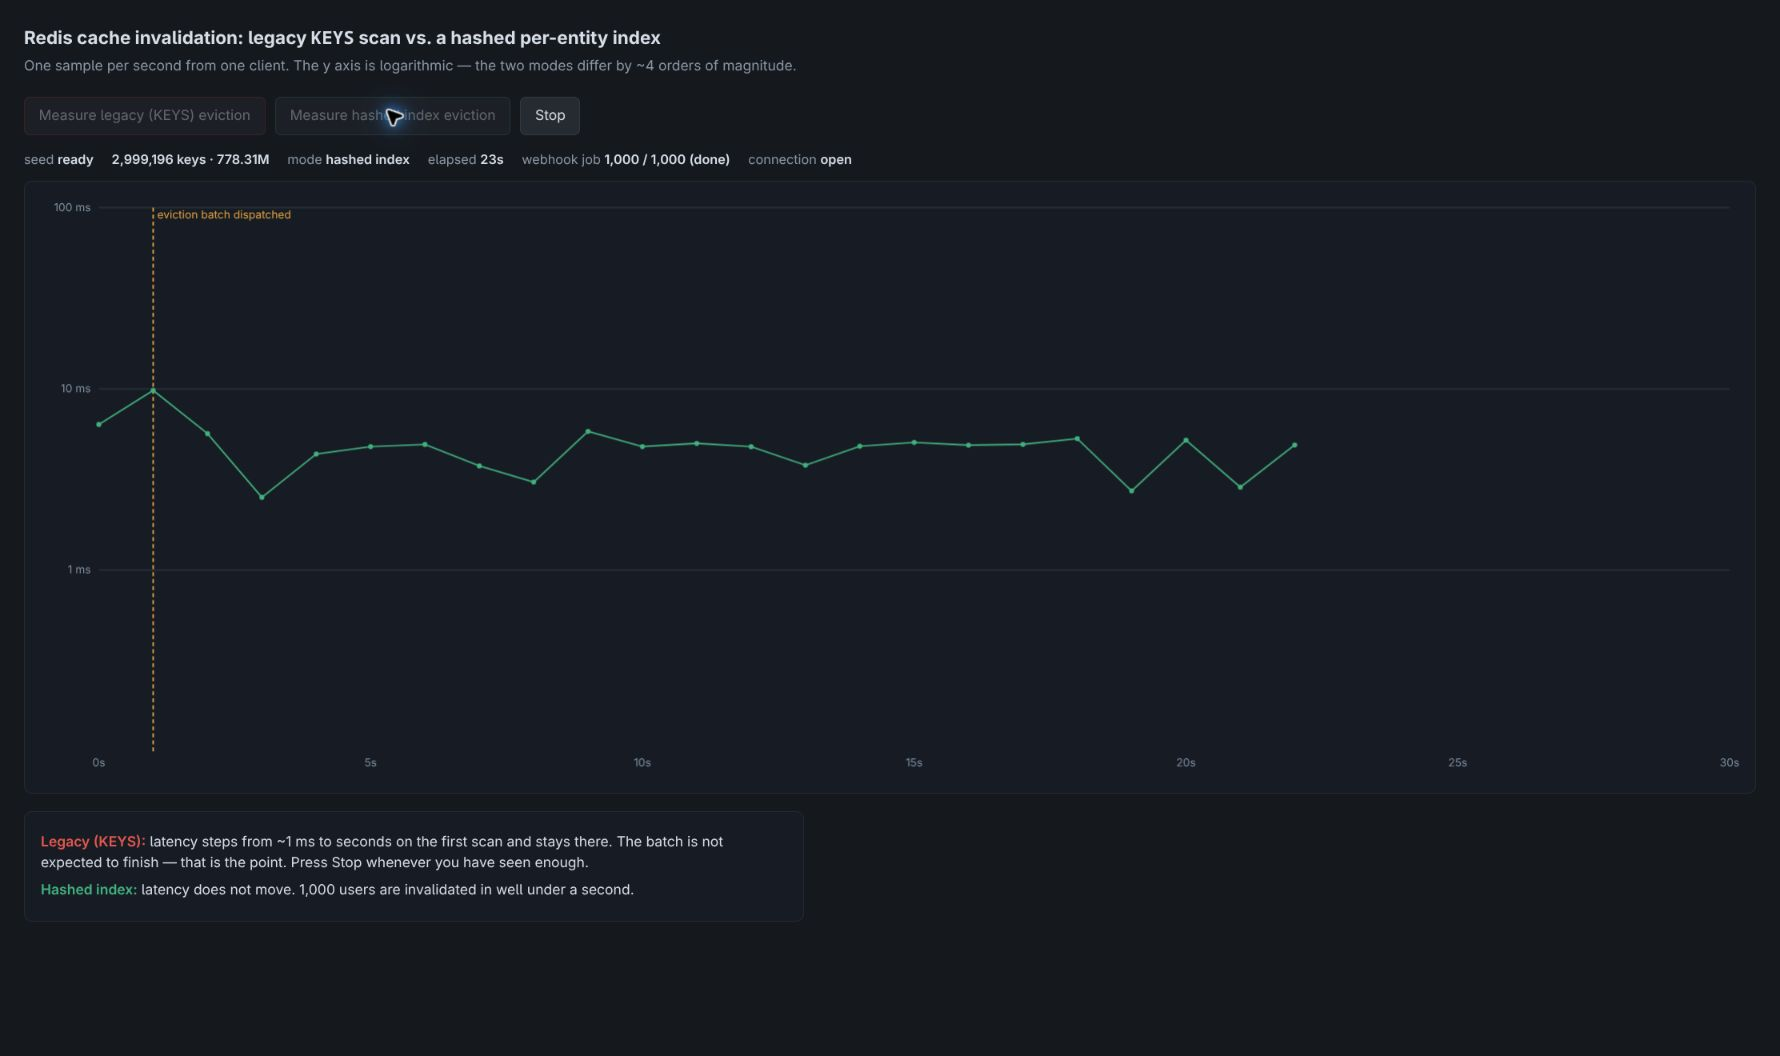
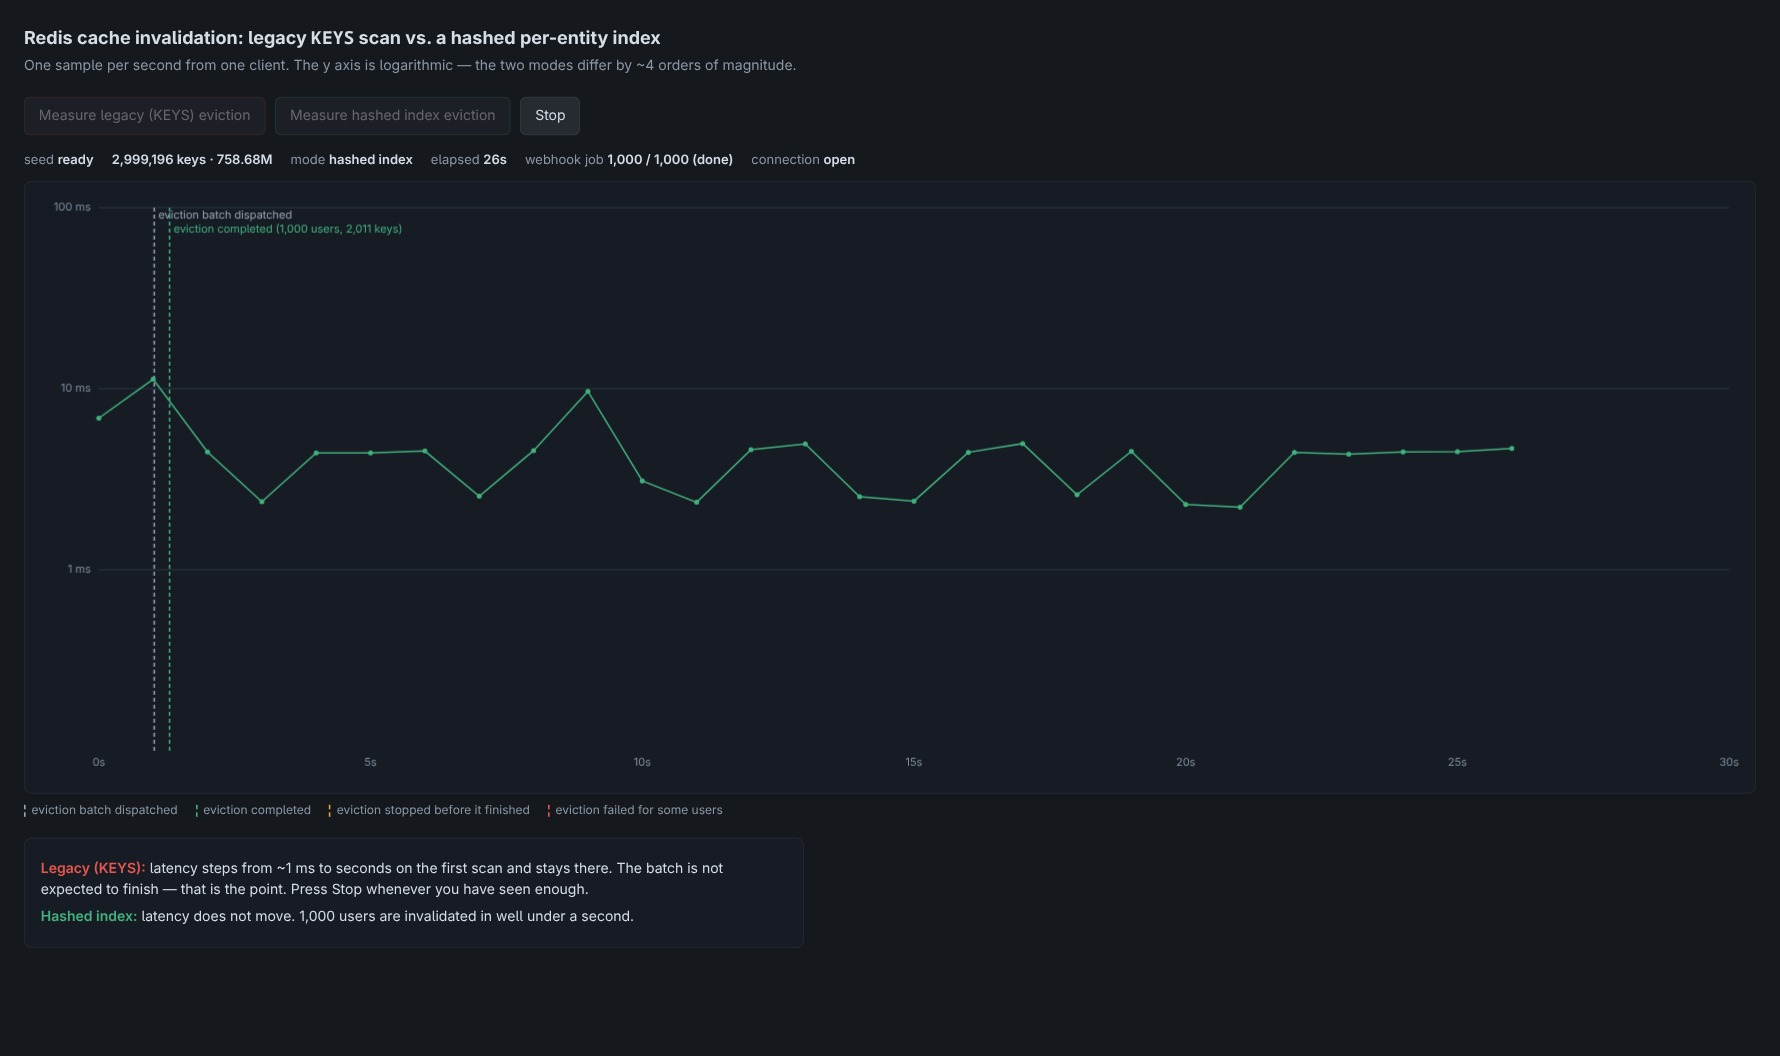
docs: refresh benchmark screenshots for the current UI
docs/run-legacy.jpg and docs/run-index.jpg were captured against US-002-era
UI — the chart has since grown a completion marker (dispatch + terminal
state, coloured green/amber/red) added in US-012, and the stack now
includes mock-billing/read-through/lazy fixture warming. Recaptured both
against the current app with the default 2M fixture:

- run-legacy.jpg: v1 (KEYS) run, stopped at 15/1,000 — shows the latency
  step to ~1s and the new amber "eviction stopped after N of 1,000" line.
- run-index.jpg: v2 (hashed index) run, completed — shows the green
  "eviction completed (1,000 users, N keys)" line, label bumped to its own
  row since dispatch and completion land almost on top of each other.

Same viewport (1780x1056) and composition as before. README caption date
updated.

diff --git a/README.md b/README.md
@@ -86,7 +86,7 @@ because a thousand keyspace scans is not something you wait out: the fast run ha
 line, the slow one has the line you drew when you gave up.
 
 Actual browser captures from the default fixture (`SEED_KEYS=2000000`, seed 1, 1,999,196 cache
-records plus 1,000,000 index sets), taken on September 10, 2026 (UTC):
+records plus 1,000,000 index sets), taken on September 14, 2026 (UTC):
 
 ![Legacy eviction: a sustained seconds-scale latency rise after dispatch](docs/run-legacy.jpg)
 
